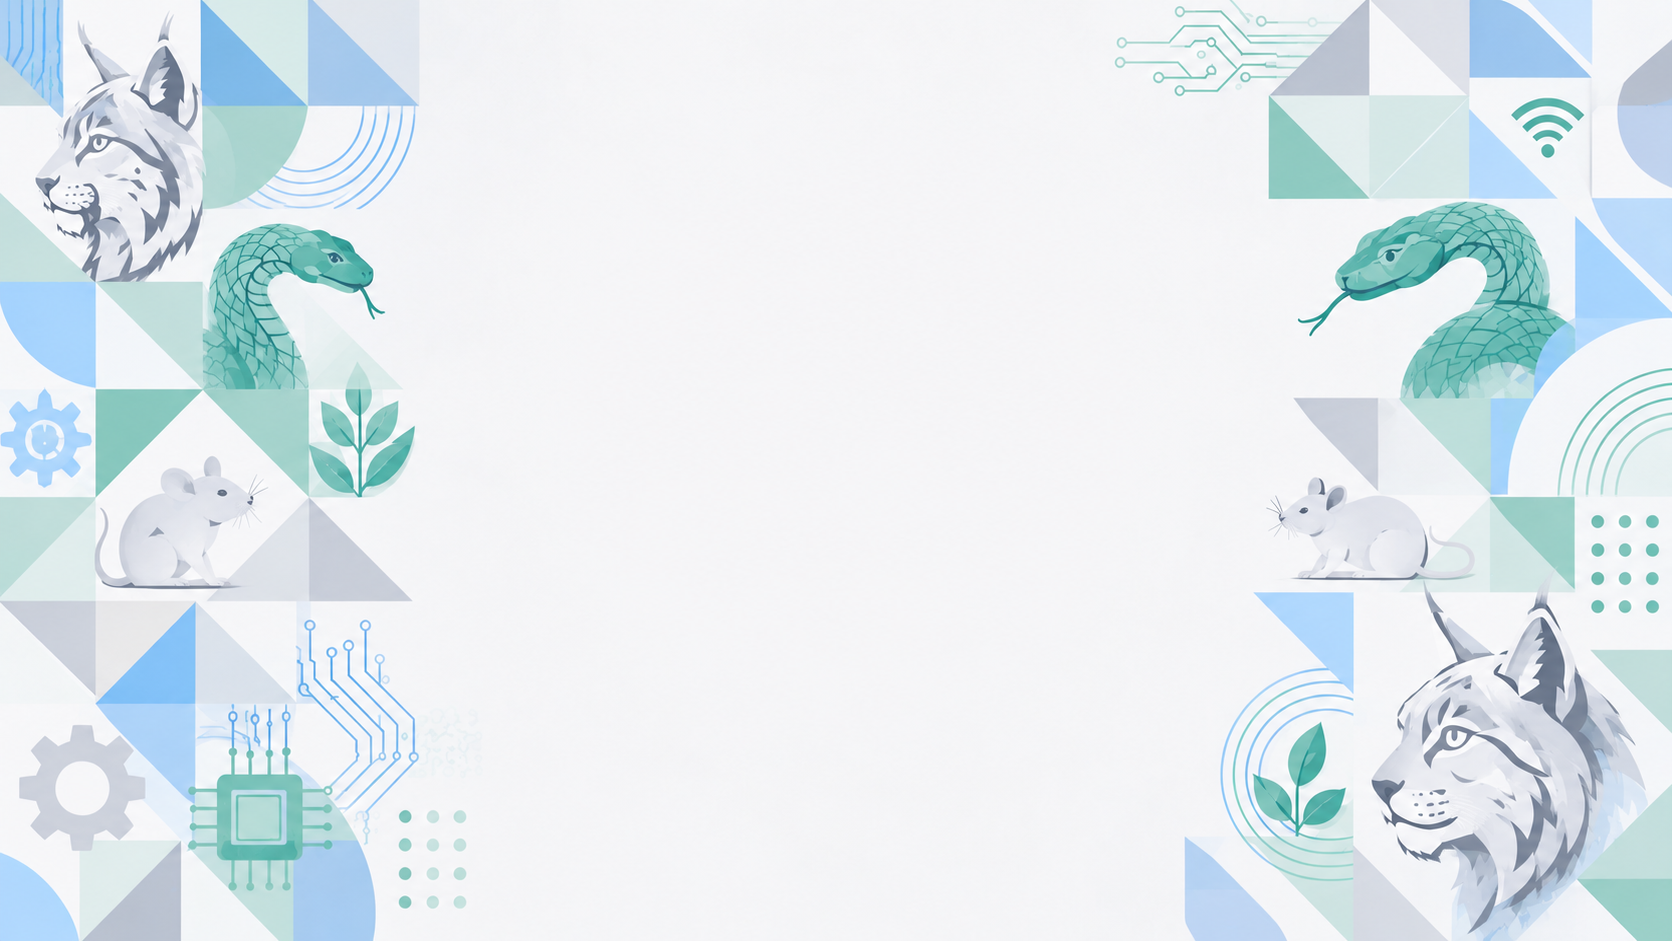
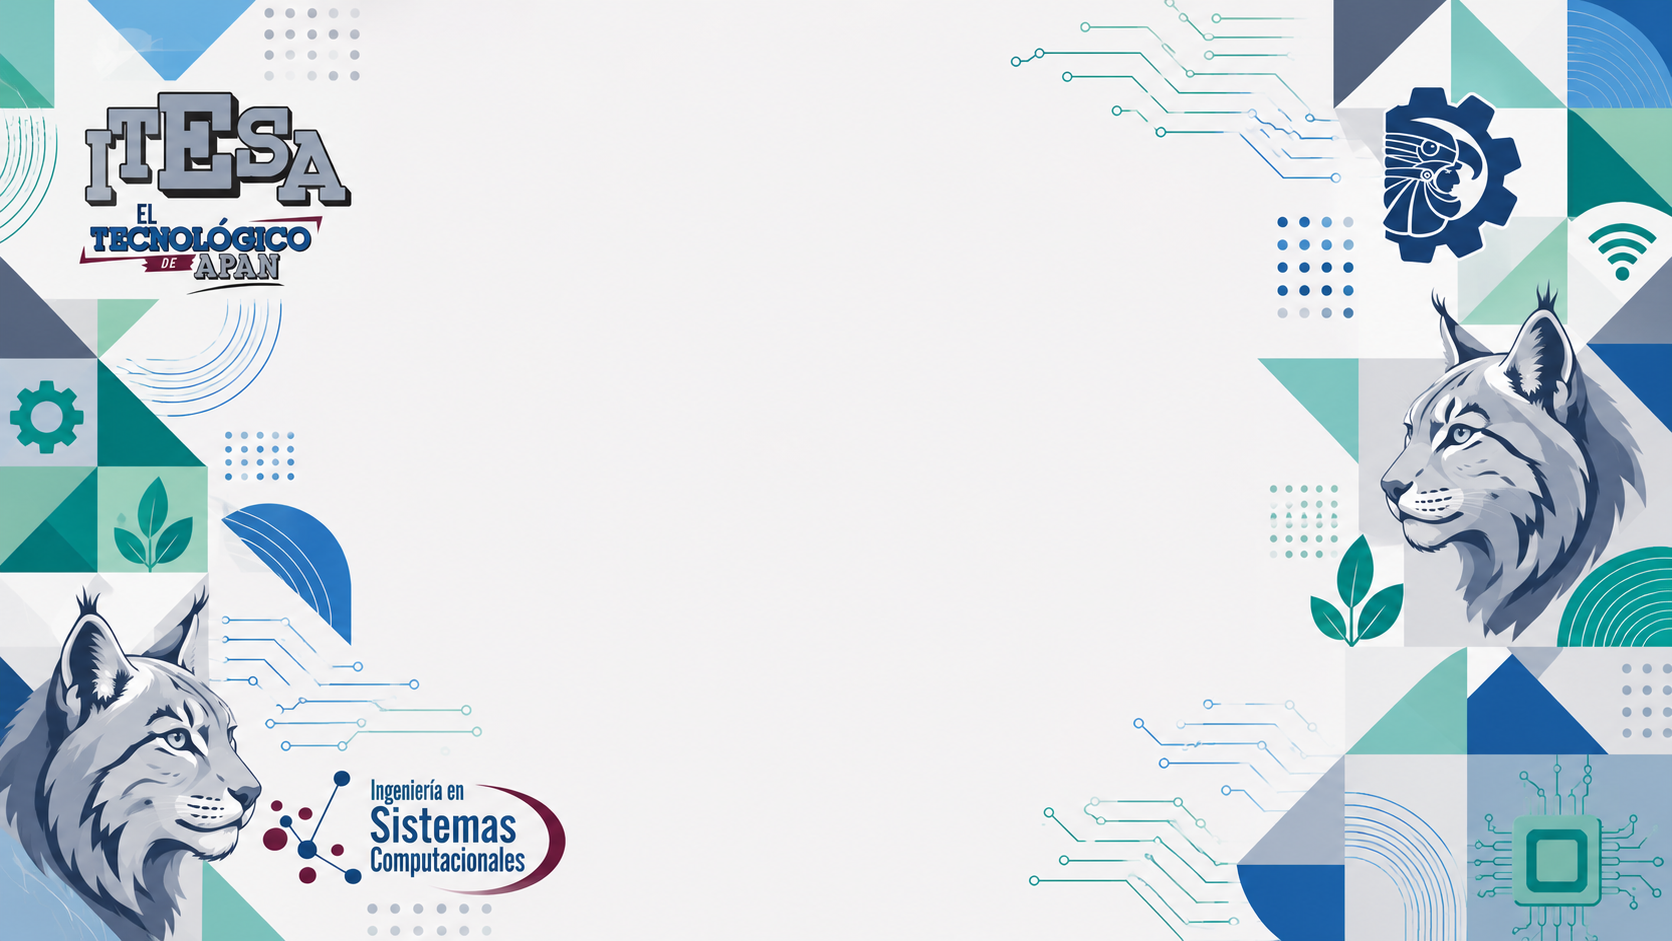
función: añadir ventana emergente de información al clickear sobre un edificio en el mapa

diff --git a/assets/css/vistas/estilos_vista_croquis.css b/assets/css/vistas/estilos_vista_croquis.css
@@ -1,3 +1,11 @@
+main {
+    width: 100vw;
+    height: 100vh;
+
+    position: relative;
+}
+
+
 #croquisItesa {
     width: 100vw;
     height: 100vh;
@@ -21,4 +29,190 @@
 .poligono-edificio:focus {
     border: none;
     outline: none;
+}
+
+.modal {
+    position: fixed;
+    top: 0;
+    left: 0;
+    width: 100vw;
+    height: 100vh;
+    background-color: rgba(0, 0, 0, 0.5);
+    display: flex;
+    justify-content: center;
+    align-items: center;
+    z-index: 9999;
+    
+    animation: fadeInFondo 0.3s ease-out forwards;
+}
+
+.modal.cerrando {
+    animation: fadeOutFondo 0.25s ease-in forwards;
+}
+.modal.cerrando .ventana-informacion-edificio {
+    animation: cerrarTarjeta 0.25s ease-in forwards;
+}
+
+.ventana-informacion-edificio {
+    background-color: #ffffff;
+    width: 50vw;
+    max-width: 600px;
+    height: 70vh;
+
+    border-radius: 50px;
+    overflow: hidden;
+
+    position: relative;
+
+    animation: abrirTarjeta 0.34s cubic-bezier(0.34, 1.56, 0.64, 1) forwards;
+}
+
+.contenedor-imagen-edificio {
+    height: 50%;
+    overflow: hidden;
+}
+
+.imagen-edficio {
+    width: 100%;
+    height: 100%;
+    object-fit: cover;
+}
+
+.contenedor-informacion-edificio {
+    background-color: white;
+    height: 50%;
+}
+
+.nombre-edificio {
+    width: 100%;
+    text-align: center;
+
+    color: #003362;
+    font-size: 2.5rem;
+    font-family: "Archivo Black", sans-serif;
+    font-weight: bold;
+    font-style: normal;
+
+    text-shadow: 0px 0px 3px white, 2px 2px 2px #027871;
+    padding-top: 10px;
+    margin: 0;
+}
+
+.informacion-edificio {
+    width: 95%;
+    color: white;
+    color: #003362;
+    font-family: 'Inter', sans-serif; 
+    font-weight: bold;  
+    border-bottom: 1px solid #003362;
+    padding: 1rem;
+    text-align: center;
+    margin: 0;
+}
+
+.areas-edificio {
+    width: 100%;
+    height: 100%;
+    display: flex;
+    flex-direction: column;
+    align-items: center;
+}
+
+.areas-edificio p {
+    font-family: 'Inter', sans-serif;
+    font-weight: bold;
+    color: #027871;
+}
+
+.areas-edificio ul {
+    width: 90%;
+    list-style-type: none;
+    padding: 0;
+
+    display: flex;
+    justify-content: center;
+    gap: 5px;
+    flex-wrap: wrap;
+}
+
+.nombre-area {
+    display: inline-block;
+    font-family: 'Inter', sans-serif;
+    font-size: 1.5rem;
+    background-color: #003362;
+    color: white;
+    padding: 0.2rem 0.5rem;
+    border-radius: 5px;
+}
+
+
+.boton-cerrar-info-edificio {
+    margin-right: 20px;
+    margin-top: 20px;
+    width: 40px;
+    height: 40px;
+
+    position: absolute;
+    top: 0;
+    right: 0;
+
+    display: flex;
+    justify-content: center;
+    align-items: center;
+
+    cursor: pointer;
+
+    background-color: #027871;
+    border: none;
+    border-radius: 5px;
+}
+
+.boton-cerrar-info-edificio:hover {
+    background-color: #003362;
+}
+
+.boton-cerrar-info-edificio img {
+    filter: invert();
+    width: 50%;
+}
+
+
+/* ==========================================
+    DEFINICIÓN DE ANIMACIONES (KEYFRAMES)
+   ========================================== */
+
+/* Entrada del Fondo */
+@keyframes fadeInFondo {
+    from { opacity: 0; }
+    to { opacity: 1; }
+}
+
+/* Salida del Fondo */
+@keyframes fadeOutFondo {
+    from { opacity: 1; }
+    to { opacity: 0; }
+}
+
+/* Entrada de la Tarjeta */
+@keyframes abrirTarjeta {
+    from {
+        opacity: 0;
+        transform: scale(0.9) translateY(20px);
+    }
+    to {
+        opacity: 1;
+        transform: scale(1) translateY(0);
+    }
+}
+
+/* Salida de la Tarjeta */
+@keyframes cerrarTarjeta {
+    from {
+        opacity: 1;
+        transform: scale(1) translateY(0);
+    }
+    to {
+        opacity: 0;
+        transform: scale(0.95) translateY(10px);
+    }
 }

diff --git a/assets/js/croquis_interactivo.js b/assets/js/croquis_interactivo.js
@@ -48,7 +48,7 @@ map.on('click', function(e) {
 
 // CARGA DE IMAGEN COMO MAPA ==================================================================================
 
-const rutaImgCroquis = '/assets/img/material_croquis/croquis_itesa.png';
+const rutaImgCroquis = '/assets/img/material_croquis/croquis_itesa.webp';
 
 let imagenCroquis = new Image();
 imagenCroquis.src = rutaImgCroquis;
@@ -72,3 +72,62 @@ imagenCroquis.onload = function () {
     map.fitBounds(limites);
     map.setMaxBounds(limites);
 };
+
+// ABRIR VENTANA FOLANTE DE EDIFICIO ==================================================================================
+
+edificioE.on("click", () => {
+    abrirVentanaInformacion(
+        'Edificio E',
+        'Edificio de la carrera de Ingeniería en Sistemas Computacionales',
+        'fachada_edificioE.webp',
+        ['LC1', 'LC2', 'LC3', 'LC4', 'LC5', 'LC6', 'LC7', 'SITE']
+    );
+});
+
+function abrirVentanaInformacion(nombreEdificio, infoEdficio, nombreImg, listaAreas) {
+    const listaAreasHTML = listaAreas.map(area => `<li class="nombre-area">${area}</li>`).join('');
+    
+    const ventanaEdificio = `
+        <div id="modal-edificio" class="modal">
+            <div class="ventana-informacion-edificio">
+                <button id="btn-cerrar-modal" class="boton-cerrar-info-edificio">
+                    <img src="/assets/img/iconos/cruz.png">
+                </button>
+                <div class="contenedor-imagen-edificio">
+                    <img class="imagen-edficio" src="/assets/img/material_croquis/fotos_de_edificios/${nombreImg}">
+                </div>
+                <div class="contenedor-informacion-edificio">
+                    <p class="nombre-edificio">${nombreEdificio}</p>
+                    <p class="informacion-edificio">${infoEdficio}</p>
+                    <div class="areas-edificio">
+                        <p>Áreas y salones/laboratorios</p>
+                        <ul>
+                            ${listaAreasHTML}
+                        </ul>
+                    </div>
+                </div>
+            </div>
+        </div>
+    `;
+
+    document.body.insertAdjacentHTML('beforeend', ventanaEdificio);
+
+    const modal = document.getElementById('modal-edificio');
+    const btnCerrar = document.getElementById('btn-cerrar-modal');
+
+    const cerrarModalConAnimacion = () => {
+        modal.classList.add('cerrando');
+
+        setTimeout(() => {
+            modal.remove();
+        }, 250); 
+    };
+
+    btnCerrar.addEventListener('click', cerrarModalConAnimacion);
+
+    modal.addEventListener('click', (e) => {
+        if (e.target === modal) {
+            cerrarModalConAnimacion();
+        }
+    });
+}

diff --git a/assets/css/base/fuentes.css b/assets/css/base/fuentes.css
@@ -1,5 +1,8 @@
 @import url('https://fonts.googleapis.com/css2?family=Inter:wght@400;700&display=swap');
 
+
+@import url('https://fonts.googleapis.com/css2?family=Archivo+Black&family=Fira+Code:wght@300..700&family=Google+Sans:ital,opsz,wght@0,17..18,400..700;1,17..18,400..700&family=Inter:ital,opsz,wght@0,14..32,100..900;1,14..32,100..900&family=Roboto+Mono:ital,wght@0,100..700;1,100..700&family=Roboto:ital,wght@0,100..900;1,100..900&family=Source+Code+Pro:ital,wght@0,200..900;1,200..900&display=swap');
+
 @font-face {
     font-family: 'Coolvetica';
     src: url('/assets/fonts/Coolvetica\ Rg.otf');

diff --git a/assets/css/vistas/inicio.css b/assets/css/vistas/inicio.css
@@ -47,7 +47,7 @@ h1,
   width: 100vw;
   height: 100vh;
 
-  background-image: url('/assets/img/fondos/fondo_claro.png');
+  background-image: url('/assets/img/fondos/fondo_claro.webp');
   background-size: cover;
   background-position: center;
 }

diff --git a/assets/php/vistas/vista_croquis_itesa.php b/assets/php/vistas/vista_croquis_itesa.php
@@ -20,11 +20,6 @@
         <script src="/assets/js/croquis_interactivo.js" defer></script>
 
         <div id="croquisItesa"></div>
-        <div class="ventana-informacion-edificio">
-            <div class="contenedor-imagen-edificio">
-                <img class="imagen-edficio" src="/assets/img/material_croquis/fotos_de_edificios/fachada_edificioE.webp">
-            </div>
-        </div>
     </main>
 </body>
 </html>

diff --git a/index.php b/index.php
@@ -15,9 +15,6 @@
         </div>
         <div class="seccion-hero">
             <div class="contenedor-bienvenida">
-                <div class="contenedor-logo">
-                    <img class="logo" src="./assets/img/logos/logo-itesa.png" alt="Logo ITESA">
-                </div>
                 <div class="contenedor-texto-bienvenida">
                     <h1>¡Bienvenido/a al <abbr title="Instituto Tecnológico Superior del Oriente del Estado de Hidalgo">ITESA</abbr>!</h1>
                     <p class="eslogan">“Por un México Tecnológicamente Independiente”</p>